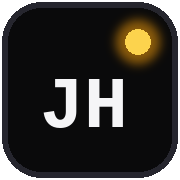
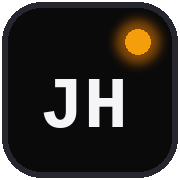
Switch accent to true amber, polish copy and trim stack
- Accent #FCD34D -> #F59E0B across CSS, Tailwind, 3D scene and icons
- Rewrite hero, process, AI, cases, stack and contact copy (ES/EN)
- Even out experience descriptions to five lines
- Remove the 'learning now' stack group

Changed region(s): [[0.6944, 0.1389, 0.8611, 0.3056]]

diff --git a/tailwind.config.js b/tailwind.config.js
@@ -17,8 +17,8 @@ export default {
           500: "#26262e",
         },
         accent: {
-          DEFAULT: "#FCD34D",
-          glow: "#F59E0B",
+          DEFAULT: "#F59E0B",
+          glow: "#D97706",
         },
         signal: "rgb(var(--signal) / <alpha-value>)",
       },
@@ -41,8 +41,8 @@ export default {
       },
       keyframes: {
         "pulse-glow": {
-          "0%, 100%": { boxShadow: "0 0 0 0 rgba(252,211,77,0.5)" },
-          "50%": { boxShadow: "0 0 0 12px rgba(252,211,77,0)" },
+          "0%, 100%": { boxShadow: "0 0 0 0 rgba(245,158,11,0.5)" },
+          "50%": { boxShadow: "0 0 0 12px rgba(245,158,11,0)" },
         },
       },
     },

diff --git a/src/components/TerminalCard.jsx b/src/components/TerminalCard.jsx
@@ -3,7 +3,7 @@
 export default function TerminalCard({ title, className = "", bodyClassName = "", children }) {
   return (
     <figure
-      className={`overflow-hidden rounded-2xl border border-fg/15 bg-bg/85 shadow-[0_0_70px_-25px_rgba(252,211,77,0.3)] backdrop-blur-md ${className}`}
+      className={`overflow-hidden rounded-2xl border border-fg/15 bg-bg/85 shadow-[0_0_70px_-25px_rgba(245,158,11,0.3)] backdrop-blur-md ${className}`}
     >
       <div className="flex items-center gap-2 border-b border-fg/10 px-4 py-3">
         <span aria-hidden className="size-2.5 rounded-full bg-fg/20" />

diff --git a/src/index.css b/src/index.css
@@ -10,7 +10,7 @@
   --surface: 14 14 18;
   --surface-2: 22 22 26;
   --fg: 245 245 247;
-  --accent: 252 211 77;
+  --accent: 245 158 11;
   --signal: 79 140 255;
 }
 
@@ -163,9 +163,9 @@ body {
 
 /* Glow utility */
 .glow-accent {
-  box-shadow: 0 0 0 1px rgba(252, 211, 77, 0.3),
-    0 8px 32px -8px rgba(252, 211, 77, 0.4),
-    0 0 60px -20px rgba(252, 211, 77, 0.5);
+  box-shadow: 0 0 0 1px rgba(245,158,11, 0.3),
+    0 8px 32px -8px rgba(245,158,11, 0.4),
+    0 0 60px -20px rgba(245,158,11, 0.5);
 }
 
 /* Glass card */

diff --git a/src/layout/Header.jsx b/src/layout/Header.jsx
@@ -51,7 +51,7 @@ export default function Header() {
             aria-label="Home"
             className="ml-2 flex items-center gap-2 font-mono text-xs uppercase tracking-widest text-fg/80 hover:text-fg"
           >
-            <span className="size-2 rounded-full bg-accent shadow-[0_0_8px_rgba(252,211,77,0.8)]" />
+            <span className="size-2 rounded-full bg-accent shadow-[0_0_8px_rgba(245,158,11,0.8)]" />
             JH
           </a>
           <ul className="hidden items-center md:flex">

diff --git a/src/layout/ScrollRail.jsx b/src/layout/ScrollRail.jsx
@@ -22,7 +22,7 @@ export default function ScrollRail() {
       <div className="relative h-full w-px bg-fg/10">
         <span
           style={{ top: `${progress * 100}%` }}
-          className="absolute -left-[3px] size-1.5 rounded-full bg-accent shadow-[0_0_8px_rgba(252,211,77,0.8)] transition-[top] duration-100"
+          className="absolute -left-[3px] size-1.5 rounded-full bg-accent shadow-[0_0_8px_rgba(245,158,11,0.8)] transition-[top] duration-100"
         />
       </div>
     </div>

diff --git a/src/data/content.js b/src/data/content.js
@@ -39,7 +39,6 @@ export const STACK_GROUPS = [
   { key: "stack_group_auto", items: ["n8n", "Power Automate", "SuiteCRM", "Gemini", "Claude Code", "Prompt Engineering"] },
   { key: "stack_group_tools", items: ["Git", "GitHub", "GitLab", "Figma", "Postman", "Jira", "Scrum"] },
   { key: "stack_group_cloud", items: ["AWS EC2", "S3", "Lambda", "RDS", "VPC"] },
-  { key: "stack_group_learning", items: ["Node.js"] },
 ];
 
 export const EXPERIENCES = [5, 4, 0, 1, 2, 3].map((n) => ({

diff --git a/src/scene/Planets.jsx b/src/scene/Planets.jsx
@@ -10,7 +10,7 @@ import { dotTexture } from "./textures";
 
 // Palettes inside the site's amber / blue identity.
 const KINDS = {
-  gas: { a: "#9a4a08", b: "#FCD34D", c: "#fff1c2", bands: 14, rim: "#ffd978" },
+  gas: { a: "#9a4a08", b: "#F59E0B", c: "#fff1c2", bands: 14, rim: "#ffd978" },
   giant: { a: "#0d2260", b: "#3a6ee0", c: "#9ec1ff", bands: 11, rim: "#6fa0ff" },
 };
 const SUN = new Vector3(-0.8, 0.3, 0.55).normalize(); // light comes from the flight line's side

diff --git a/src/scene/Stars.jsx b/src/scene/Stars.jsx
@@ -4,7 +4,7 @@ import { AdditiveBlending, Color } from "three";
 import { mulberry32 } from "./math";
 import { glowPointFragment } from "./shaders";
 
-const TINTS = ["#ffffff", "#ffffff", "#ffffff", "#ffffff", "#dbe6ff", "#dbe6ff", "#FCD34D", "#4F8CFF"];
+const TINTS = ["#ffffff", "#ffffff", "#ffffff", "#ffffff", "#dbe6ff", "#dbe6ff", "#F59E0B", "#4F8CFF"];
 const STAR_SIZE = 2.4; // px before device pixel ratio
 
 const vertexShader = /* glsl */ `

diff --git a/src/scene/Nebula.jsx b/src/scene/Nebula.jsx
@@ -8,7 +8,7 @@ import { dotTexture } from "./textures";
 // (always off to the right/back, away from the text) and colour.
 const CLOUDS = [
   { u: 0.52, offset: [20, 5, -28], radius: 13, color: "#4F8CFF" },
-  { u: 0.7, offset: [24, 0, -30], radius: 15, color: "#FCD34D" },
+  { u: 0.7, offset: [24, 0, -30], radius: 15, color: "#F59E0B" },
   { u: 0.88, offset: [21, 3, -28], radius: 14, color: "#4F8CFF" },
 ];
 

diff --git a/src/scene/shipGeometry.js b/src/scene/shipGeometry.js
@@ -13,7 +13,7 @@ export const NOZZLE_Z = 3.95; // where the exhaust starts, in the flight frame
 export const NOZZLE_RING = 0.28; // radius of the three-engine cluster
 const NOSE_Z = -4.6;
 
-const AMBER = new Color("#FCD34D");
+const AMBER = new Color("#F59E0B");
 const WARM = new Color("#ffe9a8");
 const BLUE = new Color("#4F8CFF");
 

diff --git a/src/scene/Rocks.jsx b/src/scene/Rocks.jsx
@@ -13,7 +13,7 @@ const COVERAGE = 0.9;
 const MAX_POINT_PX = 4.5;
 const SUN = new Vector3(-0.8, 0.3, 0.55).normalize(); // same light as the planets
 const PALETTES = [
-  { dark: "#5a300a", light: "#FCD34D" }, // amber
+  { dark: "#5a300a", light: "#F59E0B" }, // amber
   { dark: "#14307f", light: "#8fb8ff" }, // blue
 ];
 
